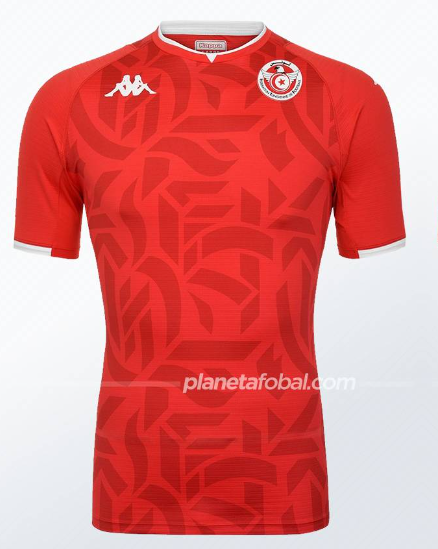
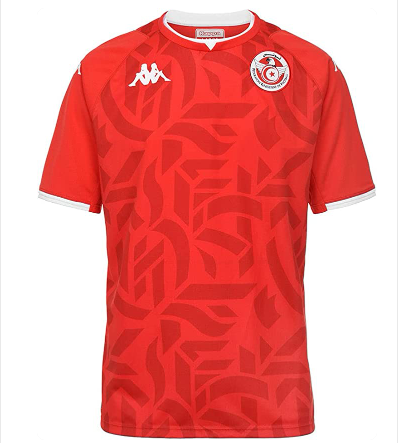
Entrega

diff --git a/src/components/ItemDetailContainer.js b/src/components/ItemDetailContainer.js
@@ -12,8 +12,8 @@ import holanda from '../assets/img/holanda.png';
 import holanda2 from '../assets/img/holanda2.png';
 import inglaterra from '../assets/img/inglaterra.png';
 import inglaterra2 from '../assets/img/inglaterra2.png';
-import iran from '../assets/img/proximamente.png';//faltan
-import iran2 from '../assets/img/proximamente.png';//faltan
+import iran from '../assets/img/iran.png';//faltan
+import iran2 from '../assets/img/iran2.png';//faltan
 import usa from '../assets/img/usa.png';
 import usa2 from '../assets/img/usa2.png';
 import gales from '../assets/img/gales.png';
@@ -30,14 +30,14 @@ import francia from '../assets/img/francia.png';
 import francia2 from '../assets/img/francia2.png';
 import australia from '../assets/img/australia.png';
 import australia2 from '../assets/img/australia2.png';
-import dinamarca from '../assets/img/proximamente.png';//faltan
-import dinamarca2 from '../assets/img/proximamente.png';//faltan
-import tunez from '../assets/img/proximamente.png';//faltan
-import tunez2 from '../assets/img/proximamente.png';//faltan
+import dinamarca from '../assets/img/dinamarca.png';
+import dinamarca2 from '../assets/img/dinamarca2.png';
+import tunez from '../assets/img/tunez.png';//faltan
+import tunez2 from '../assets/img/tunez2.png';//faltan
 import spain from '../assets/img/spain.png';
 import spain2 from '../assets/img/spain.png';
-import costaRica from '../assets/img/proximamente.png';//faltan
-import costaRica2 from '../assets/img/proximamente.png';//faltan
+import costaRica from '../assets/img/costarica.png';
+import costaRica2 from '../assets/img/costarica2.png';
 import alemania from '../assets/img/alemania.png';
 import alemania2 from '../assets/img/alemania2.png';
 import japon from '../assets/img/japon.png';
@@ -56,16 +56,17 @@ import serbia from '../assets/img/serbia.png';
 import serbia2 from '../assets/img/serbia2.png';
 import suiza from '../assets/img/suiza.png';
 import suiza2 from '../assets/img/suiza2.png';
-import camerun from '../assets/img/proximamente.png';//faltan
+import camerun from '../assets/img/camerun.png';//faltan
 import camerun2 from '../assets/img/proximamente.png';//faltan
 import portugal from '../assets/img/portugal.png';
 import portugal2 from '../assets/img/portugal2.png';
-import ghana from '../assets/img/proximamente.png';
-import ghana2 from '../assets/img/proximamente.png';
+import ghana from '../assets/img/ghana.png';
+import ghana2 from '../assets/img/ghana2.png';
 import uruguay from '../assets/img/uruguay.png';
 import uruguay2 from '../assets/img/uruguay2.png';
-import korea from '../assets/img/proximamente.png';///faltan
-import korea2 from '../assets/img/proximamente.png';///faltan
+import korea from '../assets/img/korea.png';
+import korea2 from '../assets/img/korea2.png';
+
 
 
 

diff --git a/src/components/ItemCount.js b/src/components/ItemCount.js
@@ -1,13 +1,13 @@
 import * as React from 'react';
 import './style.css';
 import { useState, useEffect } from 'react';
-import { useCartContext } from '../Cart/CartContext'
+
 
 
 
 const ItemCount = ({ stock, initial, onAdd }) => {
     const [count, setCount] = useState(initial);
-    const { addProduct } = useCartContext();
+
     useEffect(() => {
         setCount(parseInt(initial))
     }, [initial])
@@ -21,7 +21,7 @@ const ItemCount = ({ stock, initial, onAdd }) => {
             <button className='btn btn-light' disabled={count <= 1} onClick={() => {
                 setCount(count - 1);
             }}>-</button><br /><br />
-            <button className='btn btn-light' disabled={stock <= 0} onClick={() => onAdd(addProduct)}>Añadir al carrito</button>
+            <button className='btn btn-light' disabled={stock <= 0} onClick={() => onAdd(count)}>Añadir al carrito</button>
         </div>
     );
 

diff --git a/src/Cart/ItemCart.js b/src/Cart/ItemCart.js
@@ -7,7 +7,7 @@ export const ItemCart = ({ product }) => {
     const { removeProduct } = useCartContext();
     return (
         <div className='card-product'>
-            <img src={product.img1} alt="producto" />
+            <img src={product.img} alt="producto" className='img-cart' />
             <div>
                 <p className='item-cart'>Kit: {product.name}</p>
                 <p className='item-cart'>Cantidad: {product.quantity}</p>

diff --git a/src/Cart/CartContext.js b/src/Cart/CartContext.js
@@ -18,7 +18,7 @@ const CartProvider = ({ children }) => {
                 return product.id === item.id ? { ...product, quantity: product.quantity + quantity } : product
             }));
         } else {
-            setCart([...cart, { ...item, quantity }])
+            setCart([...cart, { ...item, quantity }]);
         }
     }
 

diff --git a/src/components/ItemDetail.js b/src/components/ItemDetail.js
@@ -7,9 +7,11 @@ export const ItemDetail = ({ data }) => {
 
     const [carrito, setCarrito] = useState(false)
     const { addProduct } = useCartContext();
+
     const onAdd = (quantity) => {
         setCarrito(true);
         addProduct(data, quantity);
+        console.log(`Compraste ${quantity} unidades `)
     }
 
 

diff --git a/src/components/ItemListContainer.js b/src/components/ItemListContainer.js
@@ -360,7 +360,6 @@ const productos = [
 export const ItemListContainer = () => {
     const [data, setData] = useState([]);
 
-
     useEffect(() => {
         const getData = new Promise(resolve => {
             setTimeout(() => {

diff --git a/src/Cart/itemCart.css b/src/Cart/itemCart.css
@@ -8,3 +8,9 @@
     margin: auto;
     width: 30rem;
 }
+
+.img-cart {
+    width: 14rem;
+    border-radius: 1rem;
+    margin-top: 1rem;
+}
